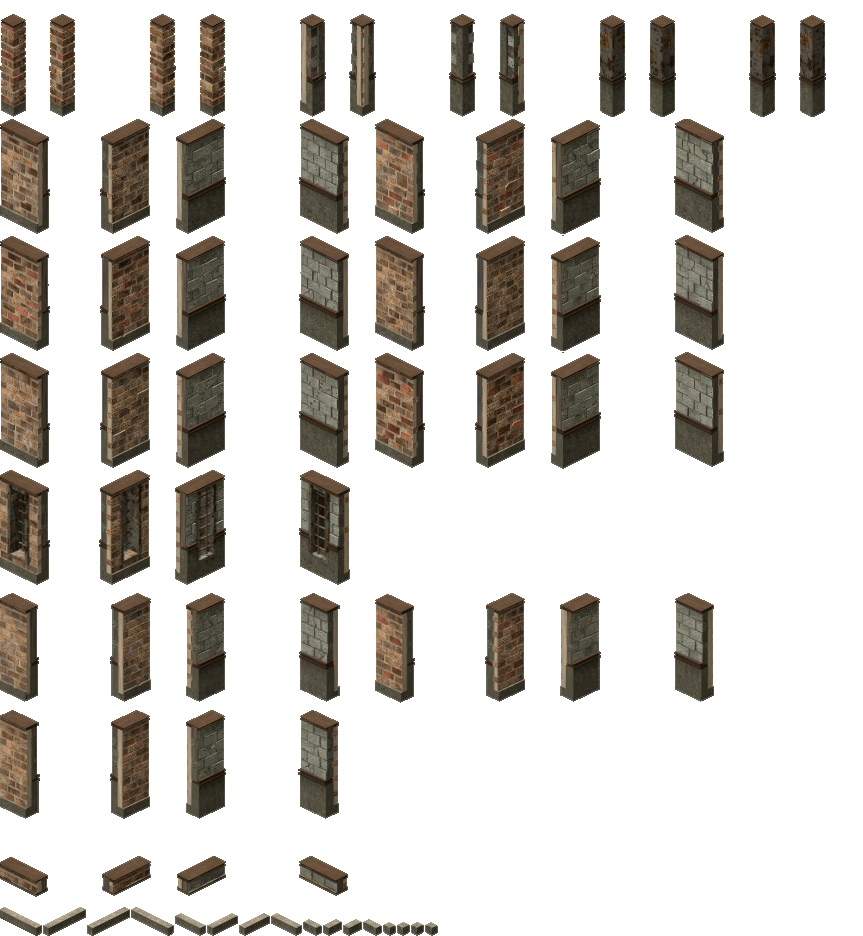
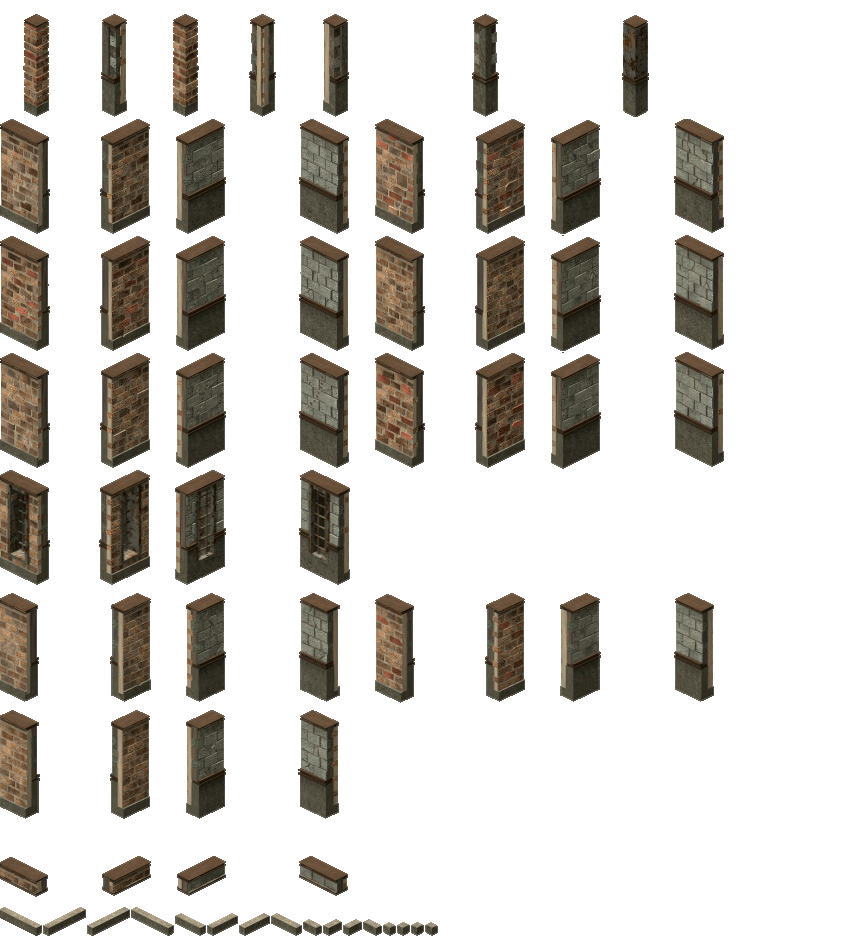
Added tiled tilesets and corrected walls

diff --git a/Output/Assets/maps/base_ground_2.tsx b/Output/Assets/maps/base_ground_2.tsx
@@ -1,0 +1,4 @@
+<?xml version="1.0" encoding="UTF-8"?>
+<tileset version="1.5" tiledversion="1.7.2" name="base_ground_2" tilewidth="75" tileheight="39" spacing="1" tilecount="48" columns="8">
+ <image source="base_ground_2.png" width="607" height="239"/>
+</tileset>

diff --git a/Output/Assets/maps/city_walls.tsx b/Output/Assets/maps/city_walls.tsx
@@ -1,0 +1,4 @@
+<?xml version="1.0" encoding="UTF-8"?>
+<tileset version="1.8" tiledversion="1.8.2" name="city_walls" tilewidth="75" tileheight="39" tilecount="264" columns="11">
+ <image source="city_walls.png" width="863" height="936"/>
+</tileset>

diff --git a/Output/Assets/maps/carpet.tsx b/Output/Assets/maps/carpet.tsx
@@ -1,0 +1,4 @@
+<?xml version="1.0" encoding="UTF-8"?>
+<tileset version="1.5" tiledversion="1.7.2" name="carpet" tilewidth="75" tileheight="39" tilecount="16" columns="4">
+ <image source="carpet.png" width="300" height="156"/>
+</tileset>
